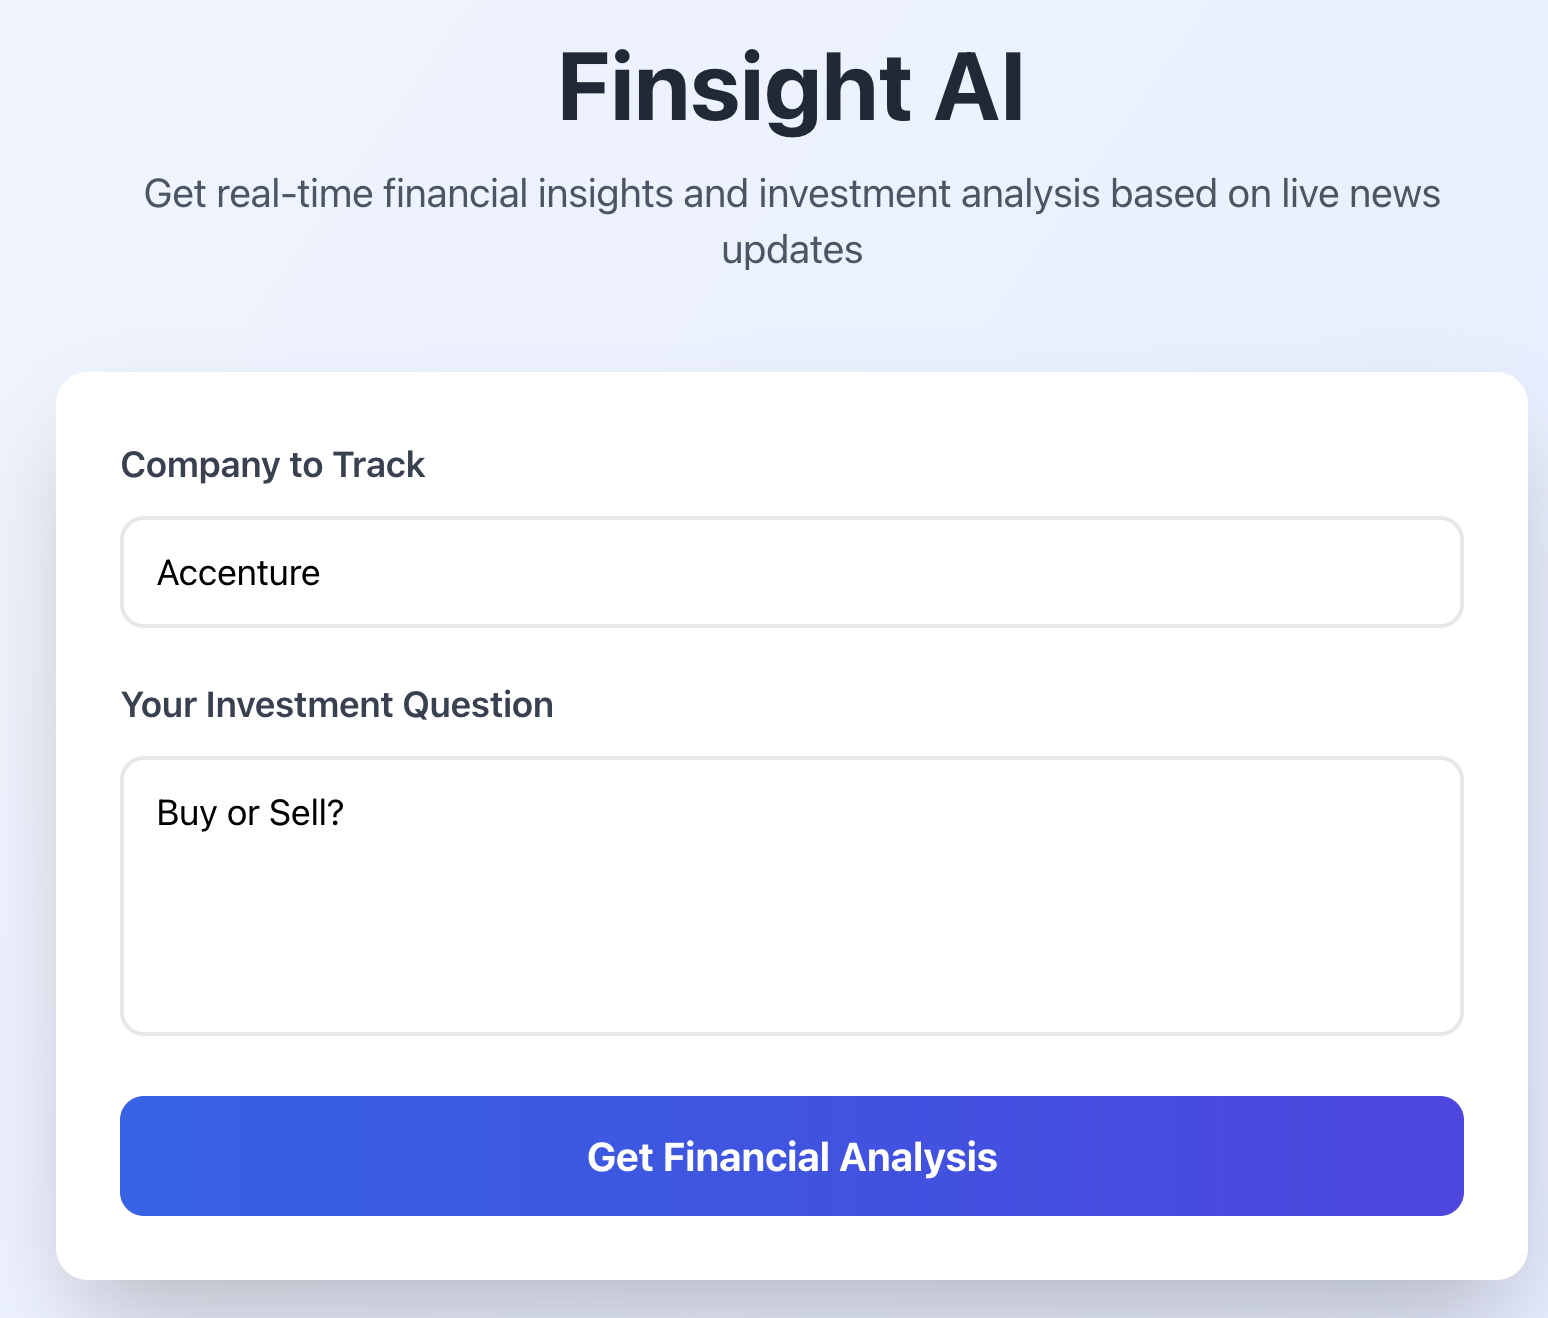
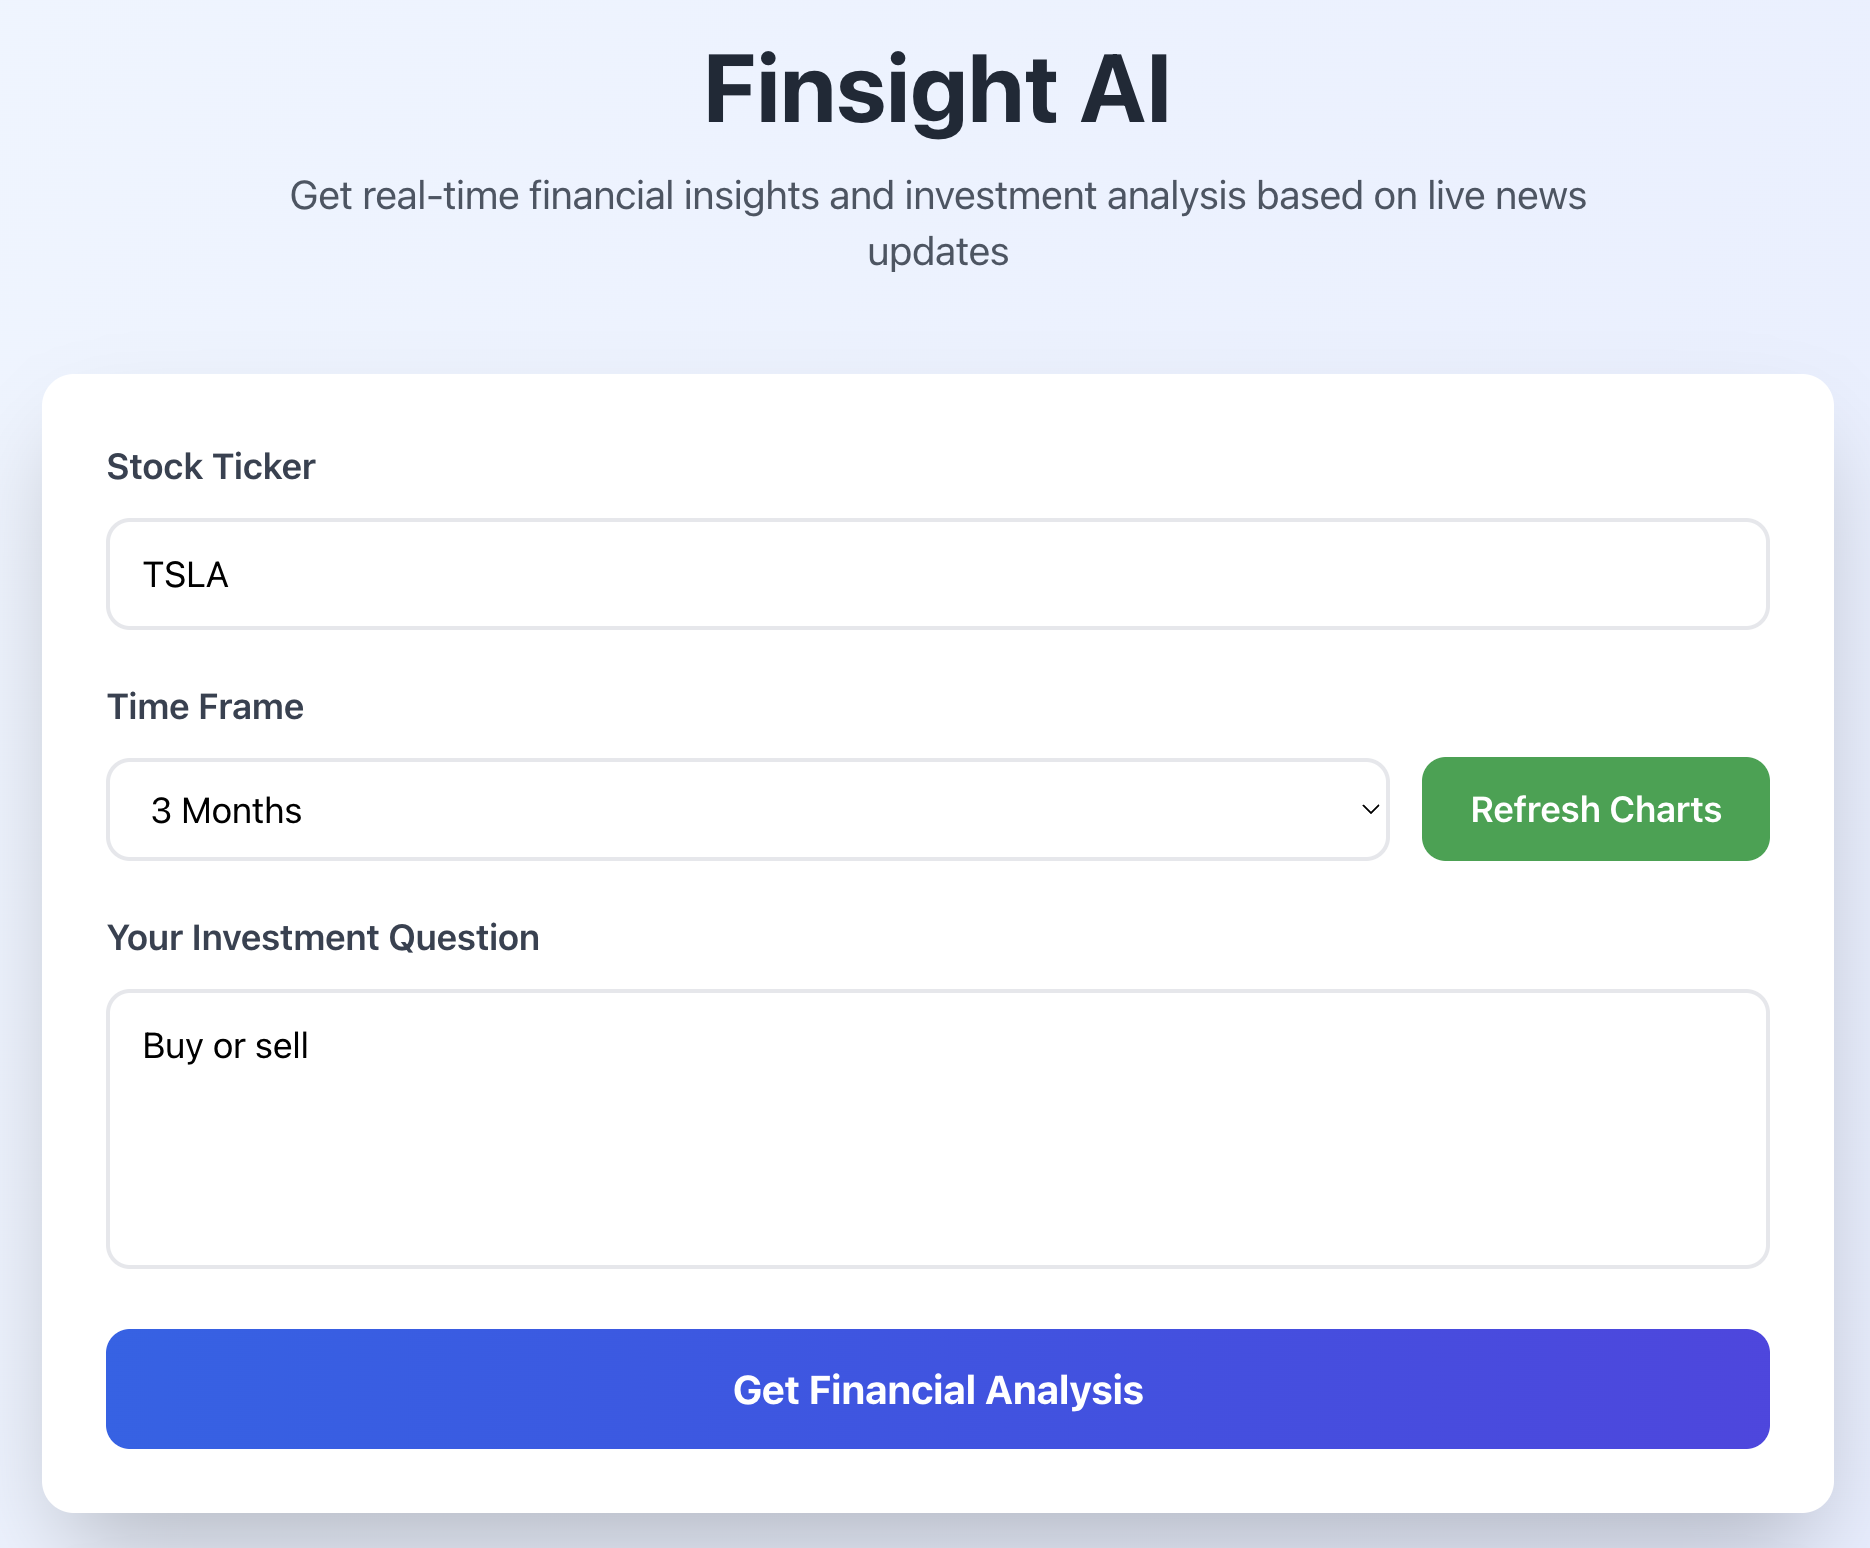
Added resources and fixed README images

diff --git a/README.md b/README.md
@@ -1,6 +1,6 @@
 # Finsight AI
 
-<img src="resources/home.png" alt="Home page of FinSight AI with input" width="53%"/>
+<img src="resources/home.png" alt="Home page of FinSight AI with input" width="53%"/>  <img src="resources/stock_chart.png" alt="Example of TSLA charts" width="46%"/>
 
 A web application that provides financial analysis inference using a finetuned LM using Retrieval-Augmented Generation (RAG) combined with real-time news data. Think of it as having a financial analyst that can quickly read through the latest news about any company and give you investment insights.
 
